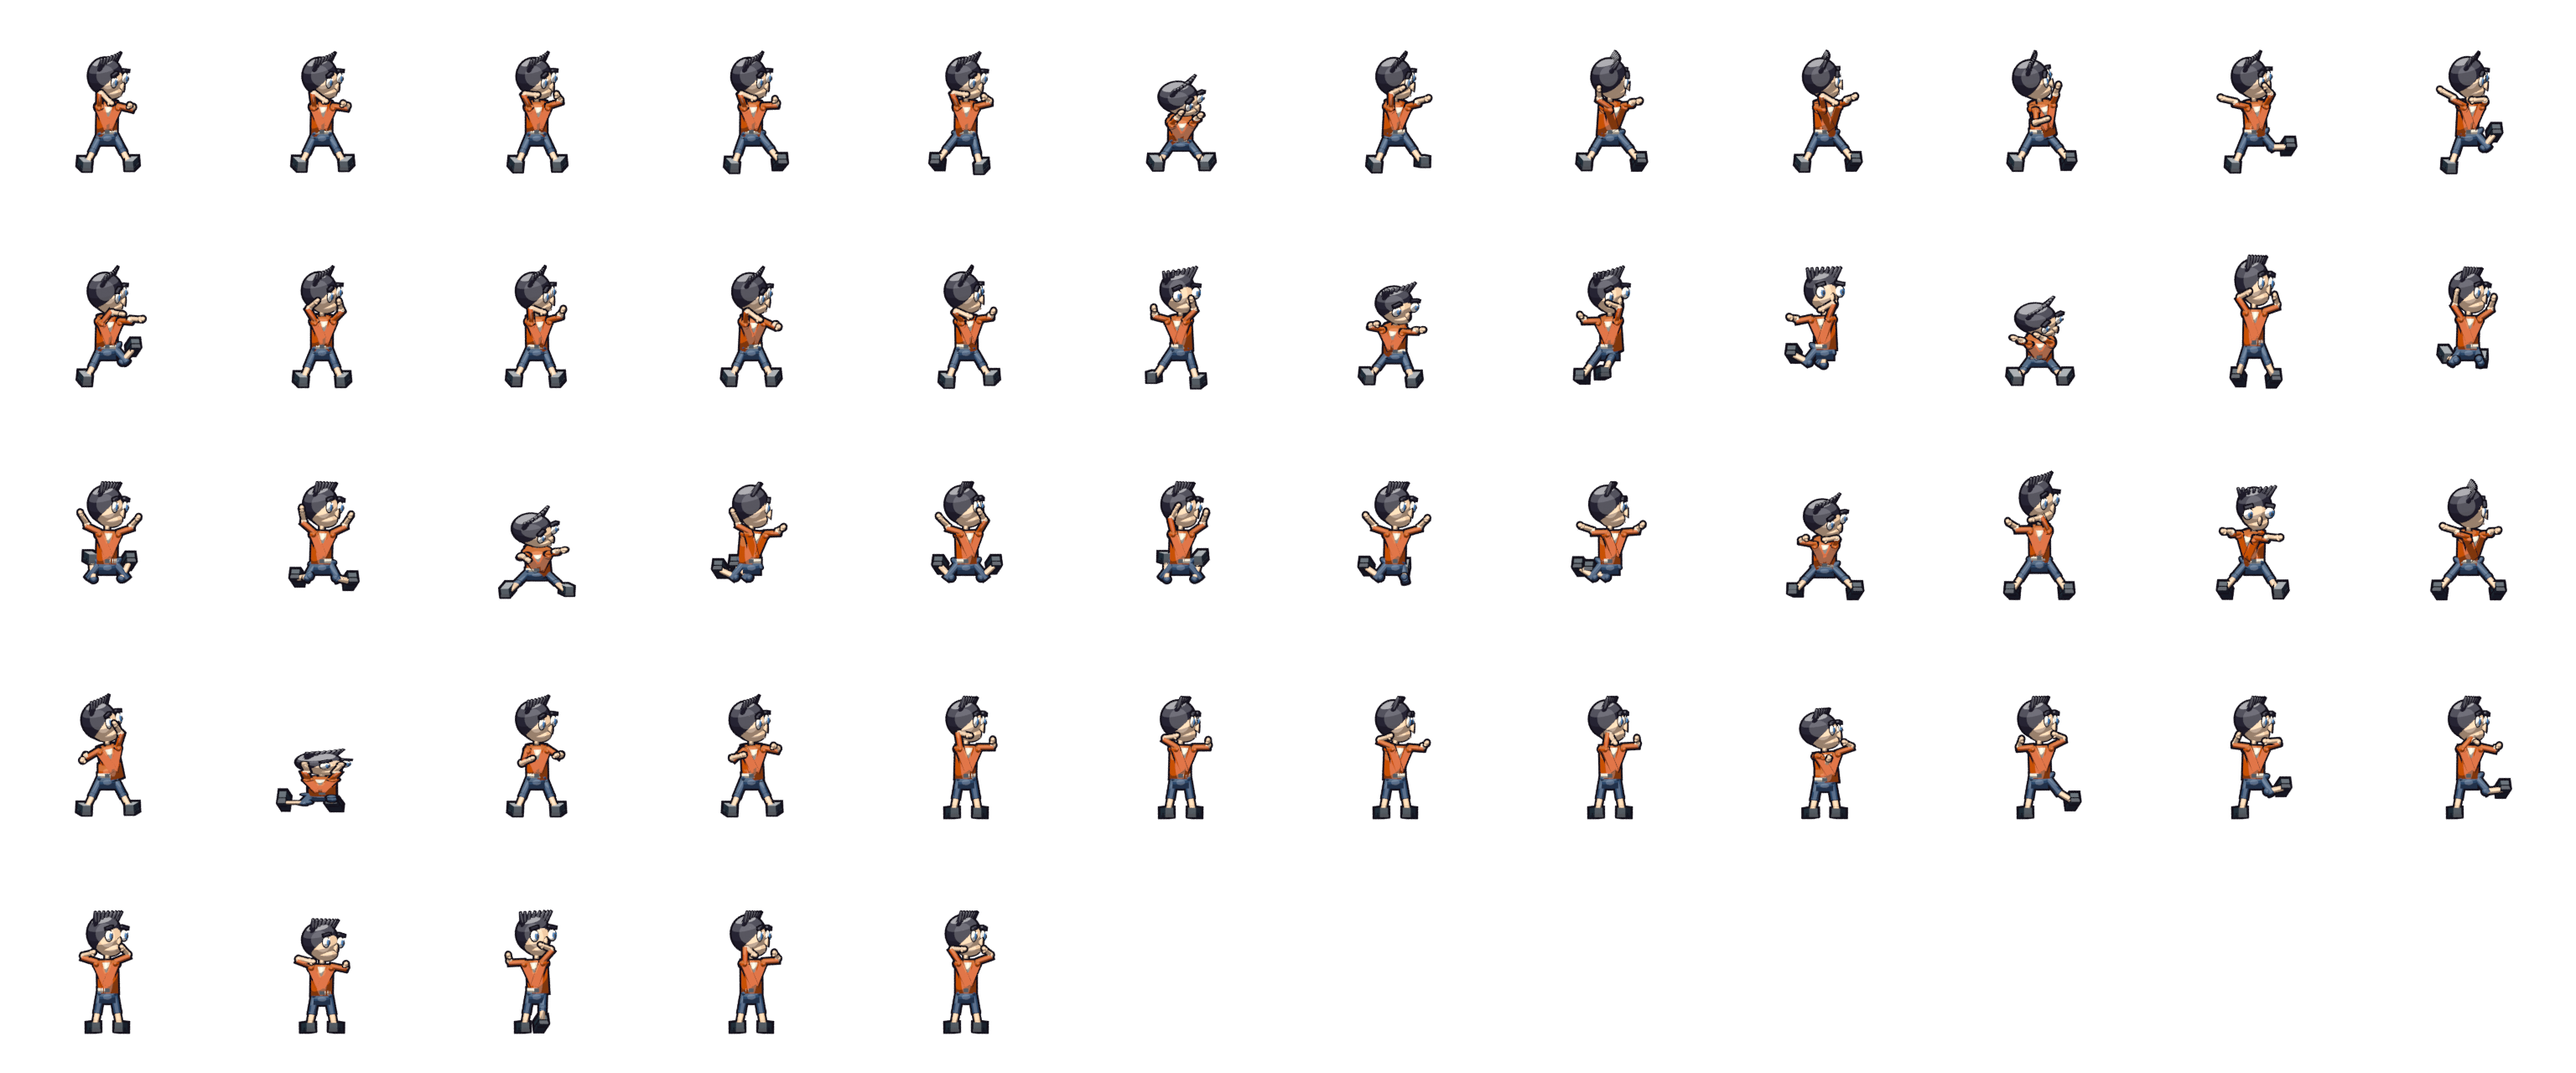
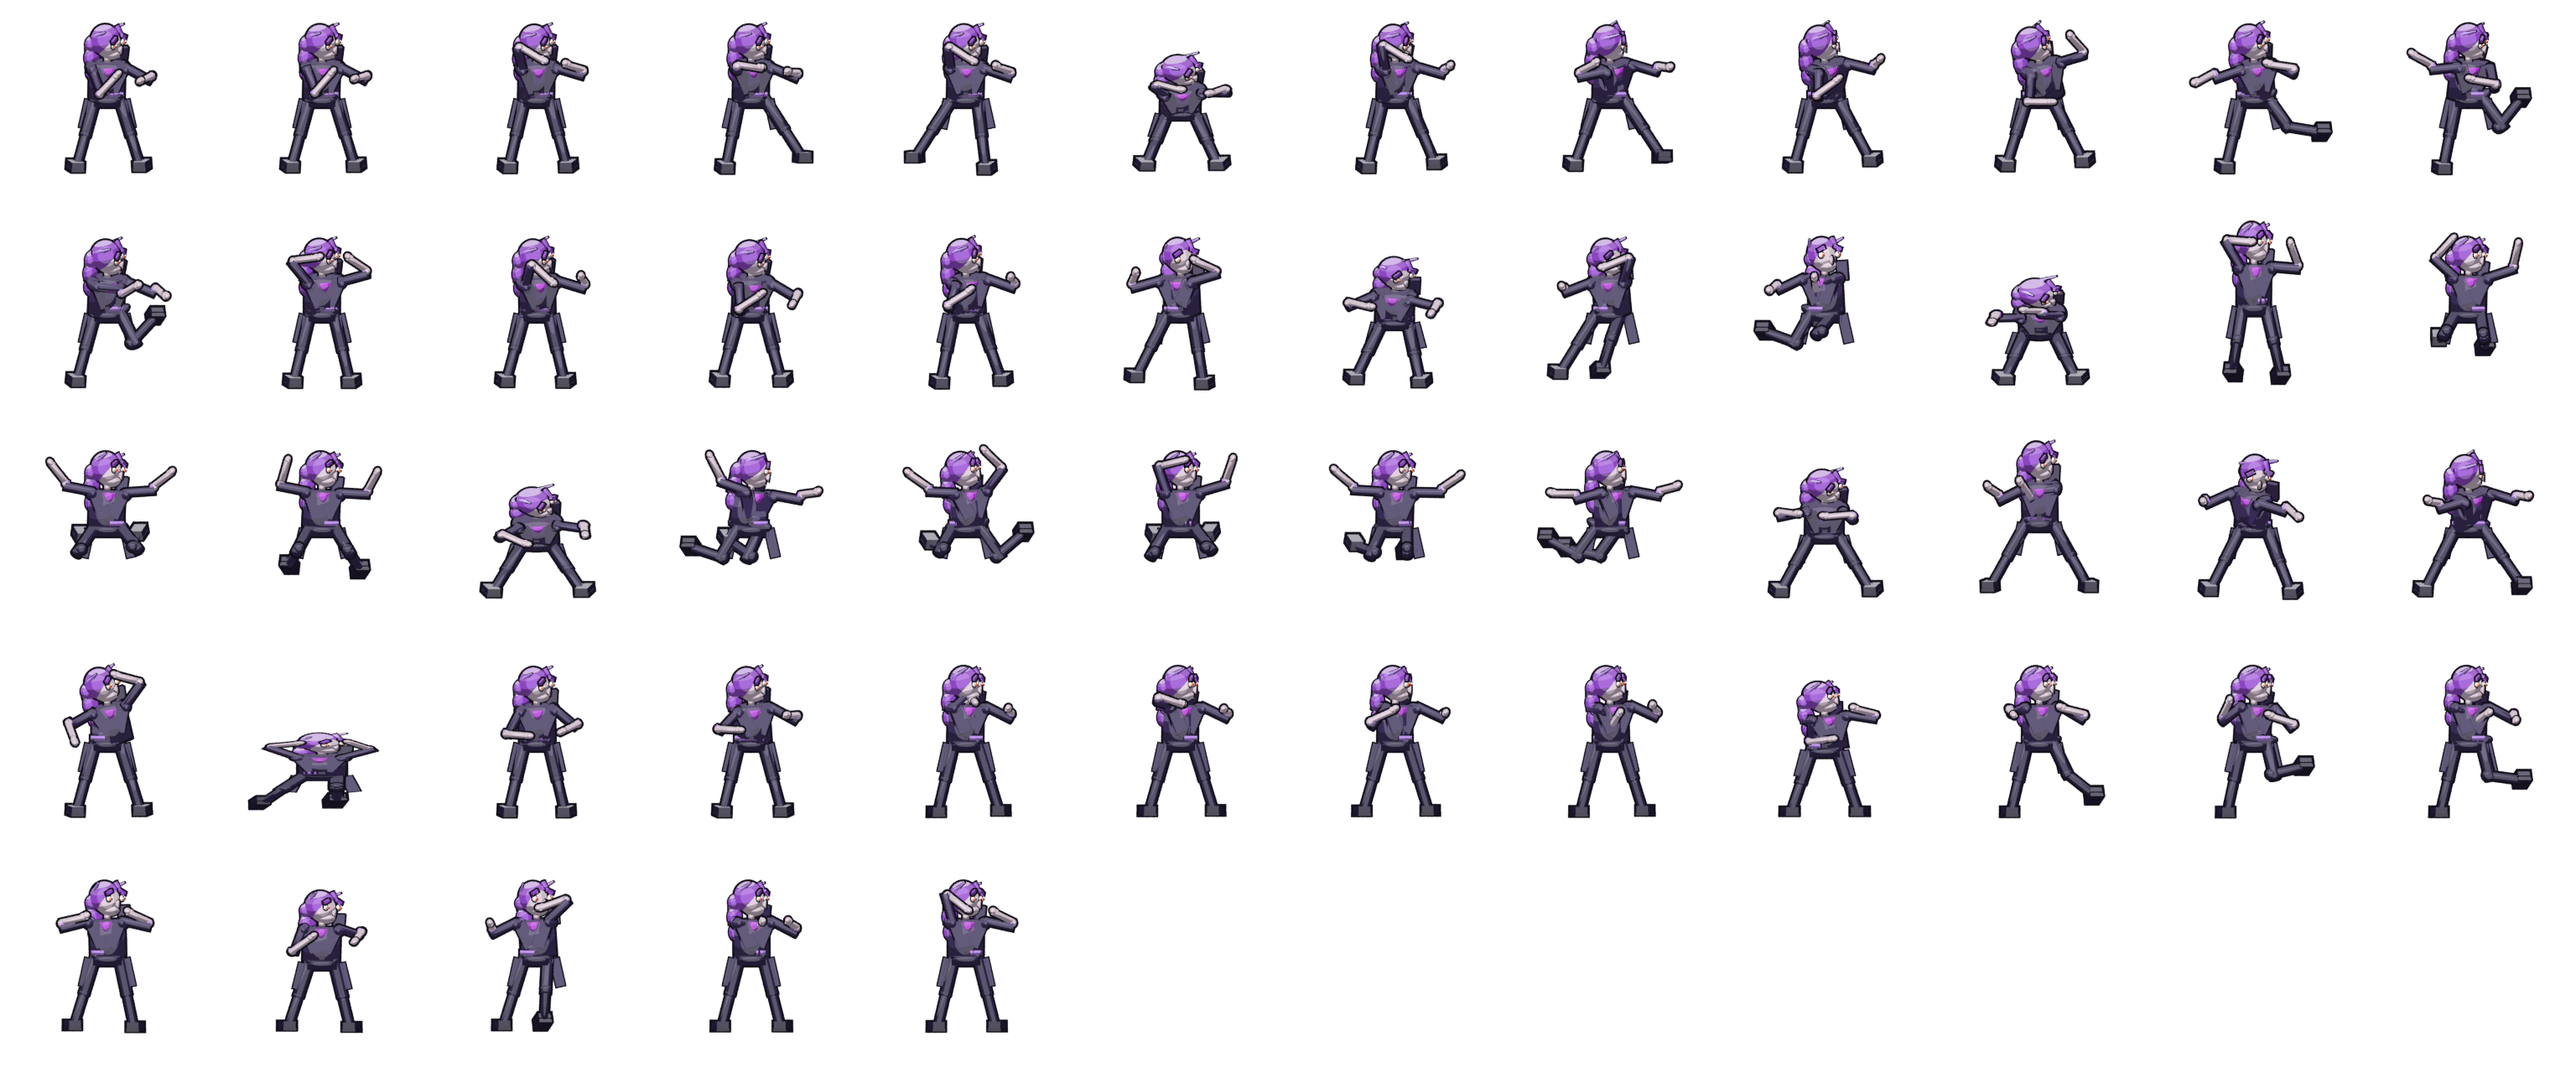
Deploy d12f16e-20260826T110417Z
Built by scripts/build/buildPublic.mjs. Do not edit this repo by hand.

diff --git a/play/2d-fighter-ex/src/moveManifest.js b/play/2d-fighter-ex/src/moveManifest.js
@@ -5,7 +5,7 @@ export const CELL = 256;
 export const REF_BODY_PX = 167.38;
 export const FEET_ROW = 205.00;
 export const PX_PER_UNIT = 98.462;
-export const ARCHETYPES = {"light": {"name": "old", "label": "old fat man", "heightMul": 1.02}, "dark": {"name": "kid", "label": "short kid", "heightMul": 0.78}};
+export const ARCHETYPES = {"light": {"name": "boy", "label": "spiky-haired boy", "heightMul": 0.9}, "dark": {"name": "villain", "label": "evil looking guy", "heightMul": 1.03}};
 
 export const MOVE_INDEX = {"idle": [0, 0], "idle-breathe": [256, 0], "guard": [512, 0], "step-in": [768, 0], "step-back": [1024, 0], "crouch": [1280, 0], "jab": [1536, 0], "cross": [1792, 0], "hook": [2048, 0], "uppercut": [2304, 0], "kick-low": [2560, 0], "kick-high": [2816, 0], "knee": [0, 256], "block-high": [256, 256], "block-mid": [512, 256], "block-low": [768, 256], "parry": [1024, 256], "hit-head": [1280, 256], "hit-body": [1536, 256], "stagger": [1792, 256], "knockdown": [2048, 256], "jump-load": [2304, 256], "jump-launch": [2560, 256], "jump-rise": [2816, 256], "jump-apex": [0, 512], "jump-fall": [256, 512], "land": [512, 512], "air-punch": [768, 512], "air-kick": [1024, 512], "air-guard": [1280, 512], "hover": [1536, 512], "fly-dash": [1792, 512], "charge": [2048, 512], "charge-max": [2304, 512], "finish-wind": [2560, 512], "finish-strike": [2816, 512], "victory": [0, 768], "defeated": [256, 768], "talk": [512, 768], "talk-point": [768, 768], "jab-mid": [1024, 768], "cross-mid": [1280, 768], "cross-out": [1536, 768], "hook-mid": [1792, 768], "upper-mid": [2048, 768], "klow-mid": [2304, 768], "khigh-mid": [2560, 768], "knee-mid": [2816, 768], "hit-head-mid": [0, 1024], "hit-body-mid": [256, 1024], "stagger-mid": [512, 1024], "block-mid-in": [768, 1024], "block-high-in": [1024, 1024]};
 

diff --git a/README.md b/README.md
@@ -2,4 +2,4 @@
 
 Built output for <https://magesticanstudios.com>. Generated - do not edit.
 
-Build `60e8ec4-20260826T104843Z`.
+Build `d12f16e-20260826T110417Z`.
